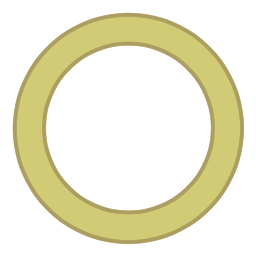
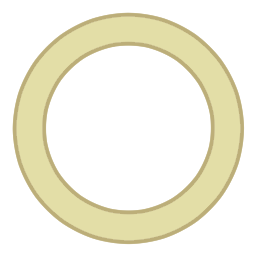
3Dパーティクルにライト反映されないように。ロウゲージの色調調整。

diff --git a/Application/Scene/ProtoScene.cpp b/Application/Scene/ProtoScene.cpp
@@ -382,7 +382,7 @@ void ProtoScene::Update()
 		}
 	}
 
-	player.waxCollectAmount += EnemyManager::GetInstance()->collectNum * 5;
+	player.waxCollectAmount += EnemyManager::GetInstance()->collectNum;
 
 	if (isHitSound && !player.soundFlag) {
 		//ここで攻撃のヒット音を鳴らす
@@ -467,7 +467,7 @@ void ProtoScene::Update()
 	}
 
 	//プレイヤーを押し戻す(ボス)
-	if (ColPrimitive3D::CheckSphereToSphere(Boss::GetInstance()->collider, player.collider)) {
+	if (ColPrimitive3D::CheckSphereToSphere(Boss::GetInstance()->collider, player.collider) && Boss::GetInstance()->isAppearance) {
 		Vector3 repulsionVec = player.GetPos() - Boss::GetInstance()->GetPos();
 		repulsionVec.Normalize();
 		repulsionVec.y = 0;

diff --git a/Application/Chara/Player/Player.cpp b/Application/Chara/Player/Player.cpp
@@ -1023,7 +1023,7 @@ void Player::WaxCollect()
 						//とりあえず壊しちゃう
 						boss->parts[(int32_t)PartsNum::LeftHand].collectPos = collectCol.start;
 						boss->parts[(int32_t)PartsNum::LeftHand].ChangeState<BossPartCollect>();
-						waxCollectAmount += 1;
+						waxCollectAmount += 5;
 					}
 				}
 			}
@@ -1043,7 +1043,7 @@ void Player::WaxCollect()
 						boss->parts[(int32_t)PartsNum::RightHand].collectPos = collectCol.start;
 						boss->parts[(int32_t)PartsNum::RightHand].ChangeState<BossPartCollect>();
 						//腕の吸収値も変数化したい
-						waxCollectAmount += 1;
+						waxCollectAmount += 5;
 					}
 				}
 			}
